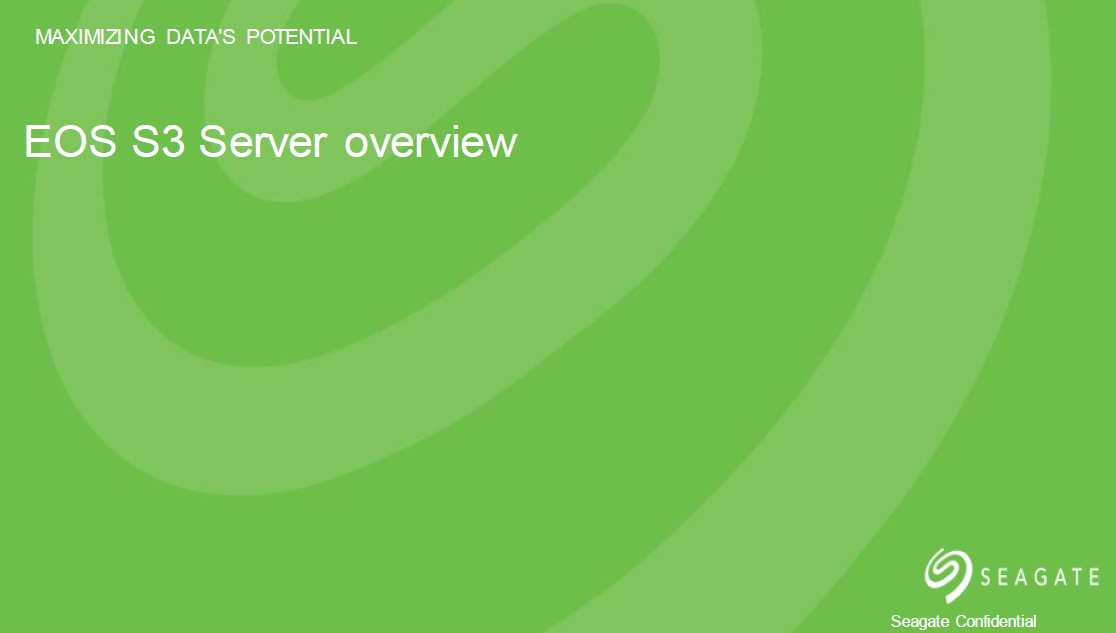
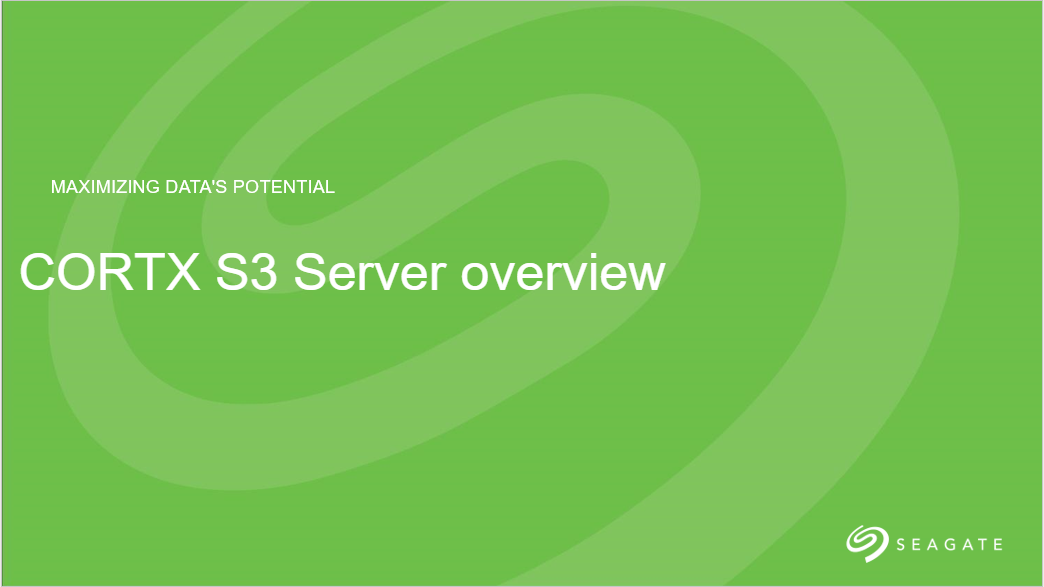
Change names S3 to CORTX-S3, EOS to CORTX, Core to Motr

diff --git a/doc/be/CORTX-S3OVERVIEW.rst b/doc/be/CORTX-S3OVERVIEW.rst
@@ -6,11 +6,11 @@
 **Agenda**
 ==========
 
-● What is S3
+● What is CORTX-S3
 
 ● Overview
 
-● S3 Server Architecture
+● CORTX-S3 Server Architecture
 
 ● Technologies used
 
@@ -18,7 +18,7 @@
 
 ● Downloads
 
-● S3 URL to EOS Core OID
+● CORTX-S3 URL to CORTX Motr OID
 
 ● Metadata
 
@@ -30,7 +30,7 @@
 
    
 ============================
-**What** is S3 **and why?**
+**What** is CORTX-S3 **and why?**
 ============================
 
 
@@ -41,20 +41,20 @@
 **Overview**
 =============
 
-● S3 Server can be installed on Mero node or a separate node
+● CORTX-S3 Server can be installed on Mero node or a separate node
 
-● Core S3 is developed in C++, Authentication/Authorisation server developed in core Java.
+● Motr CORTX-S3 is developed in C++, Authentication/Authorisation server developed in Motr Java.
 
 ● Uses Clovis library (C - API) to talk to Mero IO/KVS services
 
-● S3 Objects stored as EOS-Core (mero) Objects - IOS
+● CORTX-S3 Objects stored as CORTX-Motr (mero) Objects - IOS
 
-● KV store required for storing S3 buckets and object metadata = EOS-Core (mero) KVS (cas/dix)
+● KV store required for storing CORTX-S3 buckets and object metadata = CORTX-Motr (mero) KVS (cas/dix)
 
 ..
 
 ===========================
-**S3 Server Architecture**
+**CORTX-S3 Server Architecture**
 ===========================
 
 |image4|
@@ -63,36 +63,36 @@
 ..
  
 ===========================
-**S3 Server Architecture**
+**CORTX-S3 Server Architecture**
 ===========================
 
 |image5|
 
 ===================
-**S3 Overview**
+**CORTX-S3 Overview**
 ===================
 
 |image6|
 
-1. S3 client applications use S3 REST APls to perform object operations.
+1. CORTX-S3 client applications use CORTX-S3 REST APls to perform object operations.
 
 2. s3iamcli or GUI for Account/Users/Credentials management.
 
 3. haproxy - Load balancer / local node proxy, TLS/SSL termination.
 
-4. S3 Server exposes S3 REST APIs for EOS.
+4. CORTX-S3 Server exposes CORTX-S3 REST APIs for CORTX.
 
-5. Clovis - C library interface to EOS Object/KVS operations.
+5. Clovis - C library interface to CORTX Object/KVS operations.
 
-6. EOS Core Object store
+6. CORTX Motr Object store
 
 7. Auth server - exposes Account/User/Credentials management REST APls and authentication, authorization REST APls.
 
-8. Openldap server - DB for storing identities used with S3.
+8. Openldap server - DB for storing identities used with CORTX-S3.
 
 
 ===========================
-**S3 Tech stack overview**
+**CORTX-S3 Tech stack overview**
 ===========================
 
 
@@ -100,7 +100,7 @@
 
 
 ==================================
-**S3 Workflow (Upload Object)**
+**CORTX-S3 Workflow (Upload Object)**
 ==================================
 
 
@@ -117,22 +117,22 @@
 3. Auth server authenticates request and creates Account/User/Access keys in openldap and response is sent back to s3iamcli via haproxy.
 
 
-**Object upload via S3 API**
+**Object upload via CORTX-S3 API**
 ############################
 
-1. S3 client reads file to be uploaded as object.
+1. CORTX-S3 client reads file to be uploaded as object.
 
-2. S3 client uses PUT Object API to upload Object. For large object it divides file into parts and uploads using Multipart upload (POST Object,PUT Part and Complete upload) APIs.
+2. CORTX-S3 client uses PUT Object API to upload Object. For large object it divides file into parts and uploads using Multipart upload (POST Object,PUT Part and Complete upload) APIs.
 
-3. haproxy receives these API requests and distributes to different S3 instances.
+3. haproxy receives these API requests and distributes to different CORTX-S3 instances.
 
-4. S3 instances request Auth server to verify the API signatures to authenticate and authorize the request.
+4. CORTX-S3 instances request Auth server to verify the API signatures to authenticate and authorize the request.
 
-5. S3 instance creates an object in mero and writes data using clovis APIs. Clovis uses erasure coding/replication depending on configuration for data resiliency.
+5. CORTX-S3 instance creates an object in mero and writes data using clovis APIs. Clovis uses erasure coding/replication depending on configuration for data resiliency.
 
 
 ==================================
-**S3 Workflow (Download Object)**
+**CORTX-S3 Workflow (Download Object)**
 ==================================
 
 
@@ -140,56 +140,56 @@
 
 
 
-**Object download via S3 API**
+**Object download via CORTX-S3 API**
 ###############################
 
 
-1. S3 client makes a request to download object using S3 REST API (either full download or range read with parallel range downloads)
+1. CORTX-S3 client makes a request to download object using CORTX-S3 REST API (either full download or range read with parallel range downloads)
 
-2. haproxy receives these API requests and distributes to different S3 instances.
+2. haproxy receives these API requests and distributes to different CORTX-S3 instances.
 
-3. S3 instances request Auth server to verify the API signatures to authenticate and authorize the request.
+3. CORTX-S3 instances request Auth server to verify the API signatures to authenticate and authorize the request.
 
-4. S3 instances reads object data from mero nodes and (assembles data units at clovis layer).
+4. CORTX-S3 instances reads object data from mero nodes and (assembles data units at clovis layer).
 
-5. S3 server sends the data back to S3 clients via haproxy.
+5. CORTX-S3 server sends the data back to CORTX-S3 clients via haproxy.
 
-6. haproxy sends data back to S3 clients.
+6. haproxy sends data back to CORTX-S3 clients.
 
 
 =========================================
-**S3 Object to EOS Core object mapping**
+**CORTX-S3 Object to CORTX Motr object mapping**
 =========================================
 
 
 |image10|
 
 
-● Murmur3 hashing was used in **past** to map S3 URI to generated OID/fid
+● Murmur3 hashing was used in **past** to map CORTX-S3 URI to generated OID/fid
 
 ● Clovis Unique ID generator is used **today. ref:**
 
 `<https://docs.google.com/presentation/d/1toSKdMzamIQHCZBzQiYzIO5uXdTcDfjImPz3n6UBu0E/>`_
 
-● S3 URI – OID mapping stored in S3 Object metadata in KVS
+● CORTX-S3 URI – OID mapping stored in CORTX-S3 Object metadata in KVS
 
 
 ================
-**S3 metadata**
+**CORTX-S3 metadata**
 ================
 
-**● S3 Bucket metadata include**
+**● CORTX-S3 Bucket metadata include**
 #################################
 
 * name, timestamps, ACL, Policy
 
-* Object listing references within bucket (s3 object url, mero oid)
+* Object listing references within bucket (CORTX-S3 object url, mero oid)
 
 * Multipart upload listing references 
 
 * Tags
 
-**● S3 Object metadata**
+**● CORTX-S3 Object metadata**
 #########################
 
 * name, timestamps, ACL
@@ -242,7 +242,7 @@ Detailed metadata ref:
 
    -  Long term (Assemble in mero -recommended)
 
-      -  Follows S3 protocol strictly and mero handles handles
+      -  Follows CORTX-S3 protocol strictly and mero handles handles
          assembling in background without the user facing the delay in
          assemble.
 
@@ -264,7 +264,7 @@ Detailed metadata ref:
 
 
 =====================
-**S3 APls support**
+**CORTX-S3 APls support**
 =====================
 
 
@@ -277,10 +277,10 @@ Detailed metadata ref:
 
 
 =============================
-**S3 - Clovis KV interface**
+**CORTX-S3 - Clovis KV interface**
 =============================
 
-* S3 uses clevis key-value API interface to use specific KV store like Cassandra DB, Mero KVS, Redis etc.
+* CORTX-S3 uses clevis key-value API interface to use specific KV store like Cassandra DB, Mero KVS, Redis etc.
 
 * In future, when Mero KVS implementation is available we can switch to use Mero KVS by just a configuration change.
 
@@ -289,15 +289,15 @@ Detailed metadata ref:
 
 
 ===================
-**S3 Bucket data**
+**CORTX-S3 Bucket data**
 ===================
 
-* **S3 Bucket data include**
+* **CORTX-S3 Bucket data include**
 
 
 * Name, timestamps, ACL
 
-* Object references within bucket (s3 object url, mero oid)
+* Object references within bucket (CORTX-S3 object url, mero oid)
 	
 	
 

diff --git a/doc/architecture.md b/doc/architecture.md
@@ -8,7 +8,7 @@
 * [SNS (io, repair, rebalance)](/doc/be/sns-io-repair-rebalance.md)
 * An [opengrok source code browser](http://ssc-vm-c-192.colo.seagate.com:8090/source/xref/s3server/) for our S3 code
 * [EOS S3 IAM Overview](/doc/be/EOS_S3_IAM_Overview.rst)
-* [EOS S3 Server overview](/doc/be/EOSS3OVERVIEW.rst)
+* [CORTX S3 Server overview](/doc/be/CORTX-S3OVERVIEW)
 
 TODO: Add more.  Convert more into .rst format.
 
